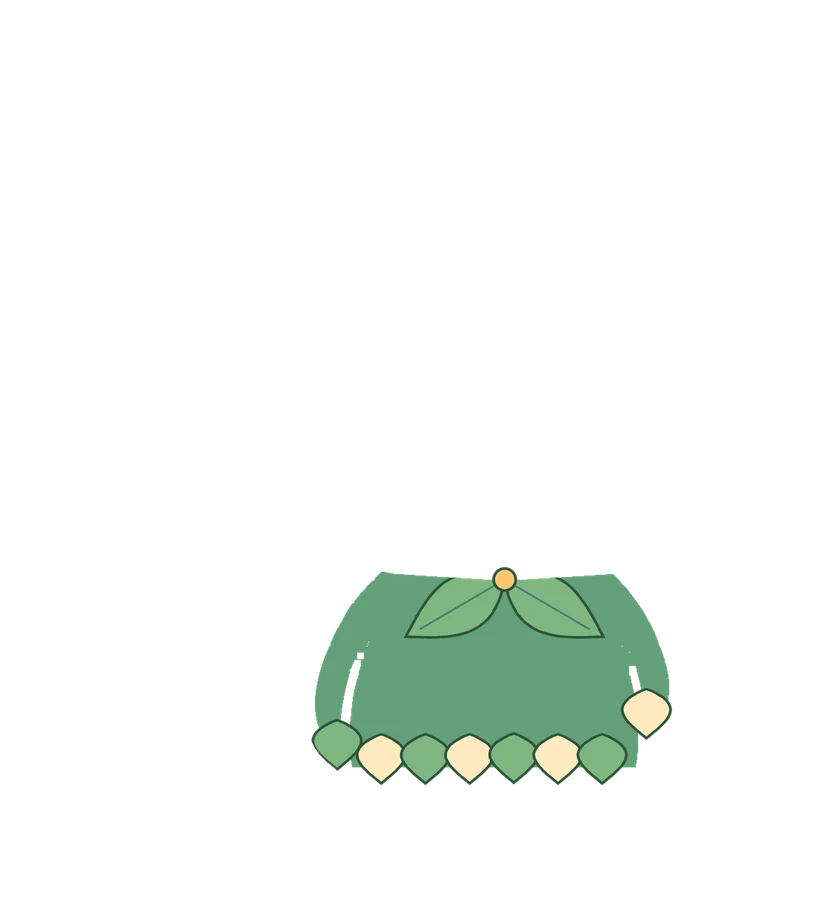
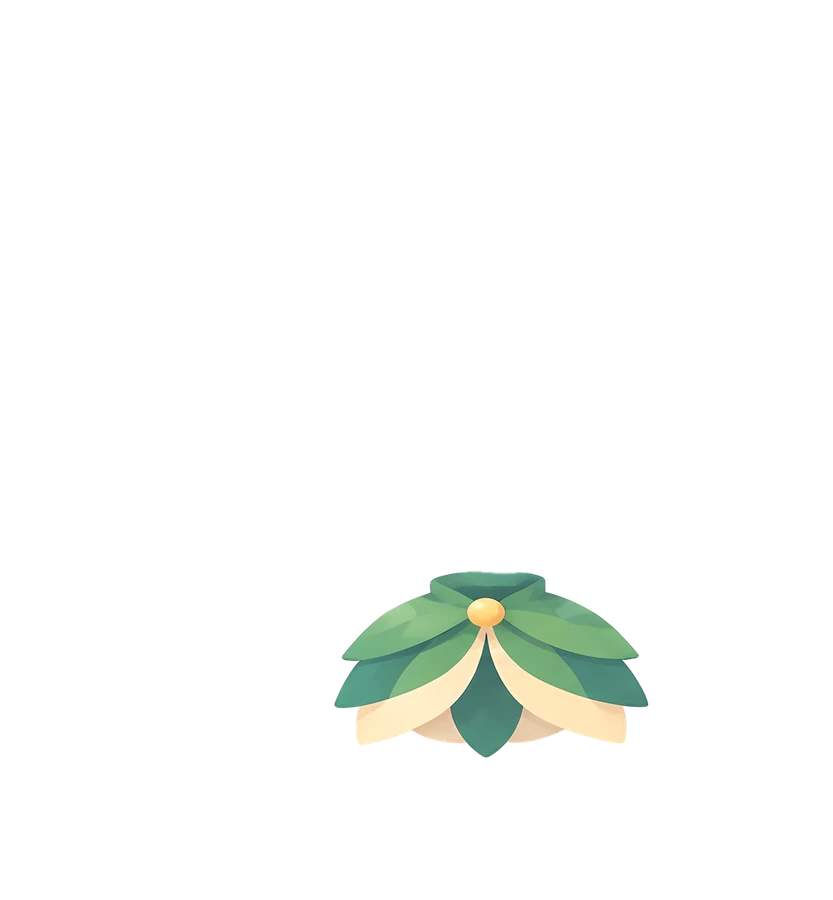
Thay Đồ: back to the real cape art; prompts for body-fitted wearables
The code-drawn top is gone. The cape picture is laid over the shoulders
(aspect mostly kept, ending above the feet, Wuwu's folded paws in front).
Art drawn for a companion's body in assets/closet/v3/fitted/<id>/ replaces
it (and the drawn boots) when present; prompts in
prompts/closet/fitted-wearables.md.

Claude-Session: https://claude.ai/code/session_014qHujtA2z4ZRALee3926PQ

Changed region(s): [[0.3745, 0.6222, 0.8115, 0.8711]]

diff --git a/scripts/build_dressup.py b/scripts/build_dressup.py
@@ -55,6 +55,7 @@ CATALOG = [
     ("14", "giay-la", "Giày Lá", "feet", dict(pair="feet", top=.85)),
 ]
 GEN = fp.ROOT / "assets/char/gen"
+FITTED = fp.ROOT / "assets/closet/v3/fitted"   # <companion>/<item id>.png: art drawn to fit that body (prompts/closet/fitted-wearables.md)
 # Per companion geometry, fractions of its own pose.
 #   head / neck / back: slot frames (x, y, width) -> Hǔhǔ placements are scaled into them
 #   chin: jaw line (left to right) - neck items are erased above it, tops start below it
@@ -78,7 +79,7 @@ MASCOTS = {
                  chin=[(.19, .42), (.33, .462), (.50, .478), (.67, .462), (.81, .42)],
                  skull=(.50, .30, .31, .22), grip=(.50, .62), grip_kind="mask", hand_scale=1.9, fly=(.10, .26),
                  grip_mask=[(.455, .62, .052, .072), (.545, .62, .052, .072)],
-                 fit={"vong-dom-dom": dict(dy=-.035, scale=.9)},
+                 fit={"vong-dom-dom": dict(dy=-.035, scale=.9)}, paws_front=True,
                  gloves=[dict(seed=(.44, .63), rows=(.50, .72), cols=(.37, .505), cuff="left"),
                          dict(seed=(.56, .63), rows=(.50, .72), cols=(.495, .63), cuff="right")],
                  feet=[.31, .70], foot_rows=(.875, .96),
@@ -225,87 +226,23 @@ def fill_region(pose, seeds, y0, y1, x_ranges=None, drop_white=False):
     return out
 
 
-def texture_into(region, art, W, H, pad, canvas, grow=(0, 0, 0, 0)):
-    """Stretch the art over the region's box (grown by fractions l, t, r, b) and keep it inside the region."""
+def worn_art(art, region, chin_y, W, H, pad, canvas, fur, bottom=None):
+    """A garment picture laid on the body: as wide as the region it covers (aspect kept), its top
+    just under the chin, trimmed to the companion's silhouette."""
     ys, xs = np.nonzero(region)
-    x0, x1, y0, y1 = xs.min() - grow[0] * W, xs.max() + grow[2] * W, ys.min() - grow[1] * H, ys.max() + grow[3] * H
-    tex = art.resize((round(x1 - x0), round(y1 - y0)), Image.LANCZOS)
-    m = Image.fromarray(region.astype(np.uint8) * 255).filter(ImageFilter.MaxFilter(3))
+    x0, x1 = xs.min(), xs.max()
+    w = (x1 - x0) * 1.04
+    h = art.height * w / art.width
+    bottom = ys.max() if bottom is None else bottom
+    if h > bottom - chin_y:                         # it stops where the feet start: squash a little,
+        h = bottom - chin_y                         # then narrow it if it would need more than that
+        w = min(w, art.width * h / art.height * 1.3)
+    art = art.resize((round(w), round(h)), Image.LANCZOS)
     layer = Image.new("RGBA", (W, H))
-    layer.alpha_composite(tex, (round(x0), round(y0)))
-    layer.putalpha(ImageChops.multiply(layer.getchannel("A"), m))
+    layer.alpha_composite(art, (round((x0 + x1) / 2 - w / 2), round(chin_y)))
+    layer.putalpha(ImageChops.multiply(layer.getchannel("A"), fur))
     out = Image.new("RGBA", canvas)
     out.alpha_composite(layer, (pad, pad))
-    return out
-
-
-def leaf(base, tip, width, n=24):
-    """A pointed leaf polygon from base to tip (pixels), widest a third of the way along."""
-    (bx, by), (tx, ty) = base, tip
-    dx, dy = tx - bx, ty - by
-    ln = max(1e-6, (dx * dx + dy * dy) ** .5)
-    nx, ny = -dy / ln, dx / ln
-    side = []
-    for i in range(n + 1):
-        t = i / n
-        w = width / 2 * np.sin(np.pi * t ** .8)
-        side.append((t, w))
-    a = [(bx + dx * t + nx * w, by + dy * t + ny * w) for t, w in side]
-    b = [(bx + dx * t - nx * w, by + dy * t - ny * w) for t, w in side[::-1]]
-    return a + b
-
-
-def leaf_top(torso, arms, art, M, W, H, pad, canvas, body_a):
-    """The leaf cape as worn: a top drawn inside the companion's own outline (torso and sleeves),
-    two big collar leaves from a gold bead under the chin and a hem of leaf tips (green and cream)."""
-    a = np.asarray(art).reshape(-1, 4)
-    px = a[a[:, 3] > 200][:, :3].astype(int)
-    r, g, b = px.T
-    gr = px[g > r + 15]
-    lum = gr @ np.array([299, 587, 114]) // 1000
-    med = lambda m: tuple(int(v) for v in np.median(m, axis=0)) + (255,)
-    light, mid, dark = med(gr[lum > np.percentile(lum, 70)]), med(gr), med(gr[lum < np.percentile(lum, 30)])
-    _, cream, gold = palette(art)
-    cream, gold, ink = cream + (255,), gold + (255,), M["ink"] + (255,)
-    k = 3
-    big = lambda m: Image.fromarray(m.astype(np.uint8) * 255).resize((W * k, H * k), Image.LANCZOS)
-    region = torso | arms
-    img = Image.new("RGBA", (W * k, H * k))
-    img.paste(mid, mask=big(torso))
-    img.paste(dark, mask=big(arms & ~torso))           # sleeves a shade darker
-    d = ImageDraw.Draw(img)
-    lw = .0045 * H * k
-    ys, xs = np.nonzero(torso)
-    x0, x1, y1 = xs.min(), xs.max(), ys.max()
-    tw = x1 - x0
-    # hem: leaf tips along the torso's bottom edge, hanging a little over the body below
-    hem = Image.new("RGBA", img.size)
-    hd = ImageDraw.Draw(hem)
-    cols = np.arange(x0, x1 + 1)
-    bottom = np.array([ys[xs == c].max() if (xs == c).any() else y1 for c in cols])
-    n = max(4, round(tw / (.07 * H)))
-    for i in range(n):
-        cx = x0 + (i + .5) * tw / n
-        by = bottom[min(len(bottom) - 1, int(cx - x0))]
-        hd.polygon([(u * k, v * k) for u, v in leaf((cx, by - .055 * H), (cx, by + .03 * H), tw / n * 1.15)],
-                   fill=cream if i % 2 else light, outline=ink, width=round(lw))
-    # collar: two big leaves from the bead under the chin, and the bead
-    cxs, cys = zip(*M["chin"])
-    ncx = (M["neck"][0]) * W
-    ncy = np.interp(M["neck"][0], cxs, cys) * H + .01 * H
-    L = .30 * tw
-    for sgn in (-1, 1):
-        d.polygon([(u * k, v * k) for u, v in leaf((ncx, ncy), (ncx + sgn * L * .95, ncy + L * .55), L * .55)],
-                  fill=light, outline=ink, width=round(lw))
-        d.line([(ncx * k, ncy * k), ((ncx + sgn * L * .8) * k, (ncy + L * .47) * k)], fill=dark, width=round(lw * .8))
-    m = big(region).filter(ImageFilter.MaxFilter(3))
-    img.putalpha(ImageChops.multiply(img.getchannel("A"), m))
-    img.alpha_composite(Image.composite(hem, Image.new("RGBA", img.size), body_a))
-    br = .02 * H * k
-    d = ImageDraw.Draw(img)
-    d.ellipse([ncx * k - br, ncy * k - br, ncx * k + br, ncy * k + br], fill=gold, outline=ink, width=round(lw))
-    out = Image.new("RGBA", canvas)
-    out.alpha_composite(img.resize((W, H), Image.LANCZOS), (pad, pad))
     return out
 
 
@@ -500,26 +437,43 @@ def build(mid, RW, RH):
             thumb.alpha_composite(l, (0, 0)); thumb.alpha_composite(r, (l.width + 20, 0))
         elif p.get("pair") == "feet":
             boot = boot_worn(load("14-boot"), ink)    # the front boot is the only complete one
+            fitted = FITTED / mid / f"{iid}.png"     # one boot (the right foot) drawn for this companion
             layer = Image.new("RGBA", canvas)
             top, seed_y = M["foot_rows"]
-            for fx in M["feet"]:                      # the boot takes the foot's own shape
+            for n, fx in enumerate(M["feet"]):        # the boot takes the foot's own shape
                 foot = fill_region(pose, [(fx, seed_y)], top, 1.0, [(fx - .13, fx + .13)])
-                layer.alpha_composite(front_boot(foot, boot, W, H, pad, canvas, ink))
+                if fitted.exists():
+                    fb = Image.open(fitted).convert("RGBA")
+                    fb = fb.crop(fb.getbbox())
+                    if n == 0:
+                        fb = fb.transpose(Image.FLIP_LEFT_RIGHT)
+                    ys_, xs_ = np.nonzero(foot)
+                    w = (xs_.max() - xs_.min()) * 1.08
+                    fb = fb.resize((round(w), round(fb.height * w / fb.width)), Image.LANCZOS)
+                    layer.alpha_composite(fb, (round(pad + (xs_.min() + xs_.max()) / 2 - w / 2), round(pad + ys_.max() + .006 * H - fb.height)))
+                else:
+                    layer.alpha_composite(front_boot(foot, boot, W, H, pad, canvas, ink))
             thumb = load(files)
         else:
             art = load(files)
             thumb = art
-            if p.get("worn") == "top":                # a top covers the torso and both arms
+            if p.get("worn") == "top":                # a top over the torso (and the arms, if its art has sleeves)
                 cx, cy = zip(*M["chin"])
                 chin = lambda x: (np.interp(x / W, cx, cy) + .012) * H
-                body = fill_region(pose, M["torso"], chin, M["torso_bottom"], drop_white=M["drop_white"])
+                fur_np = np.asarray(torso_img.crop((pad, pad, pad + W, pad + H))) > 0
+                body = fill_region(pose, M["torso"], chin, M["torso_bottom"], drop_white=M["drop_white"]) & fur_np
                 arms = fill_region(pose, [a[0] for a in M["arms"]], M["arm_rows"][0], M["arm_rows"][1], [a[1] for a in M["arms"]])
-                body &= np.asarray(torso_img.crop((pad, pad, pad + W, pad + H))) > 0
-                for g in M["gloves"]:                 # sleeves stop where the hands start
-                    arms &= ~fill_region(pose, [g["seed"]], g["rows"][0], g["rows"][1], [g["cols"]])
-                fur_a = Image.fromarray((np.asarray(torso_img.crop((pad, pad, pad + W, pad + H))) > 0).astype(np.uint8) * 255)
-                layer = leaf_top(body, arms, art, M, W, H, pad, canvas,
-                                 fur_a.resize((W * 3, H * 3)))
+                fitted = FITTED / mid / f"{iid}.png"     # art drawn for this companion's body, if there is one
+                if fitted.exists():
+                    art = Image.open(fitted).convert("RGBA")
+                    art = art.crop(art.getbbox())
+                fur = Image.fromarray(fur_np.astype(np.uint8) * 255).filter(ImageFilter.MaxFilter(5))
+                y0 = np.interp(M["neck"][0], cx, cy) * H - .01 * H
+                layer = worn_art(art, body | arms, y0, W, H, pad, canvas, fur,     # over the shoulders and arms
+                                 M["foot_rows"][0] * H)
+                erase(layer, head_mask)
+                if M.get("paws_front"):              # folded arms stay in front of the top
+                    hold(layer)
             elif slot == "hand":
                 h = p["h"] * RH * M["hand_scale"]
                 art = art.resize((max(1, round(art.width * h / art.height)), max(1, round(h))), Image.LANCZOS)

diff --git a/prompts/closet/fitted-wearables.md b/prompts/closet/fitted-wearables.md
@@ -1,0 +1,51 @@
+# Đồ mặc vừa người · prompt ChatGPT (Hǔhǔ, Wuwu, Dudu)
+
+Áo, giày cần vẽ riêng cho từng bạn: mỗi bạn một dáng người khác (Wuwu thân bè, tay khoanh; Dudu đứng nghiêng, một tay nắm). Kéo giãn hình chung hoặc vẽ bằng code đều xấu, nên mỗi món mặc cần một hình vẽ đúng dáng người đó.
+
+Đính kèm theo thứ tự:
+- **ảnh 1** = dáng của bạn đó:
+  - Hǔhǔ: `assets/char/gen/huhu-front-idle.png`
+  - Wuwu: `assets/char/gen/wuwu/wuwu-dressup-base.png`
+  - Dudu: `assets/char/gen/dudu/dudu-dressup-base.png`
+- **ảnh 2** = hình món gốc:
+  - Áo Choàng Lá: `assets/closet/v3/items/10.png`
+  - Giày Lá: `assets/closet/v3/items/14-boot.png`
+- **ảnh 3** = style mẫu `materials/references/closet/style-ref-v2.png`
+
+Mỗi khối = 1 chat mới. Tải PNG gốc, đặt tên đúng chỗ rồi chạy `python3 scripts/build_dressup.py`. Pipeline tự đặt hình vào người (áo: rộng bằng thân + tay, mép trên dưới cằm; giày: rộng bằng bàn chân, đế chạm đất).
+
+| Món | Lưu vào |
+|---|---|
+| Áo của Hǔhǔ | `assets/closet/v3/fitted/huhu/ao-choang-la.png` |
+| Áo của Wuwu | `assets/closet/v3/fitted/wuwu/ao-choang-la.png` |
+| Áo của Dudu | `assets/closet/v3/fitted/dudu/ao-choang-la.png` |
+| Giày (chân phải) | `assets/closet/v3/fitted/<huhu / wuwu / dudu>/giay-la.png` |
+
+---
+
+## Áo Choàng Lá mặc vừa người (thay `<NAME>` và mô tả dáng)
+
+Dáng:
+- Hǔhǔ: *two arms hang straight down at his sides*
+- Wuwu: *very wide round body, both arms folded across the chest, paws meeting in the middle*
+- Dudu: *left arm held out to the side with a closed fist, right arm hanging down*
+
+```
+Image 1 is <NAME>, a finished cartoon character, standing front-facing. Image 2 is the Leaf Cape item. Image 3 is the STYLE REFERENCE (line weight and colour, flat fills, one small flat highlight, chunky rounded shapes); copy the style only, none of its items.
+
+Redraw the Leaf Cape from image 2 as a TOP WORN BY <NAME> in exactly his pose: <POSE>. Same design (overlapping green leaves, cream inner leaves, the gold bead at the collar), now shaped to his body: it covers his chest, belly and shoulders and has sleeves that follow his arms exactly as they are posed and stop at the wrist, so his paws stay bare. The collar sits right under his chin.
+
+Draw ONLY the garment, exactly as it would look on him from the front: only its outside is visible (no inner lining, no opening, no back side). Same size and position as on image 1, so it can be laid straight over him. Do NOT draw the character, his head, paws, legs, tail or ghost wisps. Plain white background, nothing else in the picture. Flat 2D, no gradients, no glow, no text.
+```
+
+## Giày Lá mặc vừa chân (một chiếc, chân phải)
+
+```
+Image 1 is <NAME>, a finished cartoon character, standing front-facing. Image 2 is the Leaf Boot item. Image 3 is the STYLE REFERENCE; copy the style only.
+
+Redraw ONE Leaf Boot from image 2 as it looks WORN on <NAME>'s right foot, seen from the front like in image 1: the same width as his foot, the sole flat on the ground, toe facing the viewer. Only its outside is visible: no opening or inner lining at the top, his leg goes into it. Same design (green shaft, cream toe with cloud scallops, blue sole, gold bead), no text.
+
+Draw ONLY the boot: no foot, no leg, no character. Plain white background. Flat 2D, no gradients, no glow.
+```
+
+Gửi hình về, Claude tách nền và đặt vào. Chưa có hình thì trang dùng áo choàng gốc (không có tay áo) và giày vẽ theo bàn chân.
